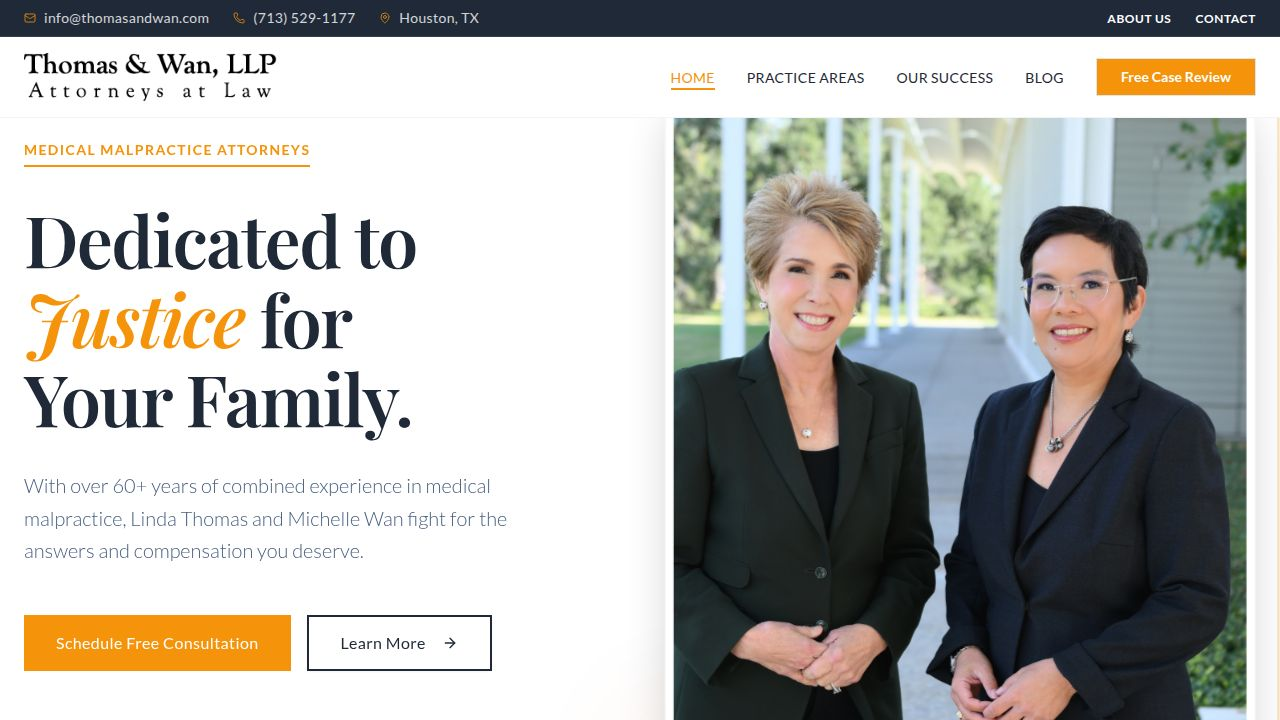
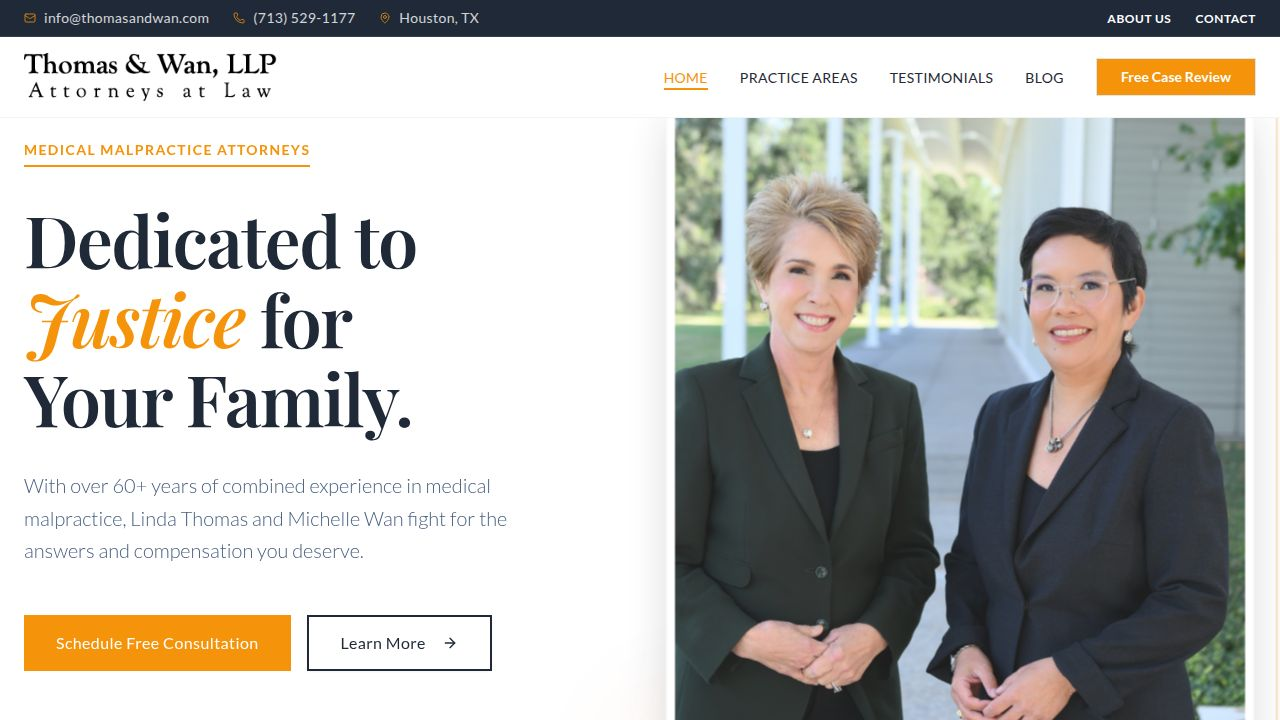
Update office address and navigation links for consistent information
Updated the office address in the Footer and Contact page components. Renamed "Our Success" to "Testimonials" in the navigation and updated related content.

Replit-Commit-Author: Agent
Replit-Commit-Session-Id: 595245bc-66b4-4f3c-b5cb-345f3c65086f
Replit-Commit-Checkpoint-Type: full_checkpoint
Replit-Commit-Event-Id: ed4c7d77-9bb1-4a68-996a-a2a6ca7667e6
Replit-Commit-Screenshot-Url: https://storage.googleapis.com/screenshot-production-us-central1/c2cc1403-2177-4233-8c7d-12b18c71f9fa/595245bc-66b4-4f3c-b5cb-345f3c65086f/E22HOI8
Replit-Helium-Checkpoint-Created: true

diff --git a/client/src/pages/Contact.tsx b/client/src/pages/Contact.tsx
@@ -73,8 +73,8 @@ export default function ContactPage() {
                     <div>
                       <h4 className="font-bold text-primary text-xl mb-2">Office Location</h4>
                       <p className="text-slate-600 leading-relaxed">
-                        123 Legal Avenue, Suite 400<br/>
-                        Houston, TX 77002
+                        1710 Sunset Blvd<br/>
+                        Houston, TX 77005
                       </p>
                       <a href="#" className="text-sm font-bold uppercase tracking-wide text-secondary hover:text-primary mt-2 inline-block">
                         Get Directions
@@ -171,7 +171,7 @@ export default function ContactPage() {
            <div className="text-center">
              <MapPin className="w-12 h-12 text-secondary mx-auto mb-4" />
              <h3 className="text-2xl font-serif text-primary">Interactive Map Loading...</h3>
-             <p className="text-muted-foreground">123 Legal Avenue, Houston, TX 77002</p>
+             <p className="text-muted-foreground">1710 Sunset Blvd, Houston, TX 77005</p>
            </div>
         </section>
 

diff --git a/client/src/components/Footer.tsx b/client/src/components/Footer.tsx
@@ -40,8 +40,8 @@ export default function Footer() {
                 <div>
                   <h4 className="font-bold text-lg">Office</h4>
                   <p className="text-white/70">
-                    123 Legal Avenue, Suite 400<br/>
-                    Houston, TX 77002
+                    1710 Sunset Blvd<br/>
+                    Houston, TX 77005
                   </p>
                 </div>
               </div>
